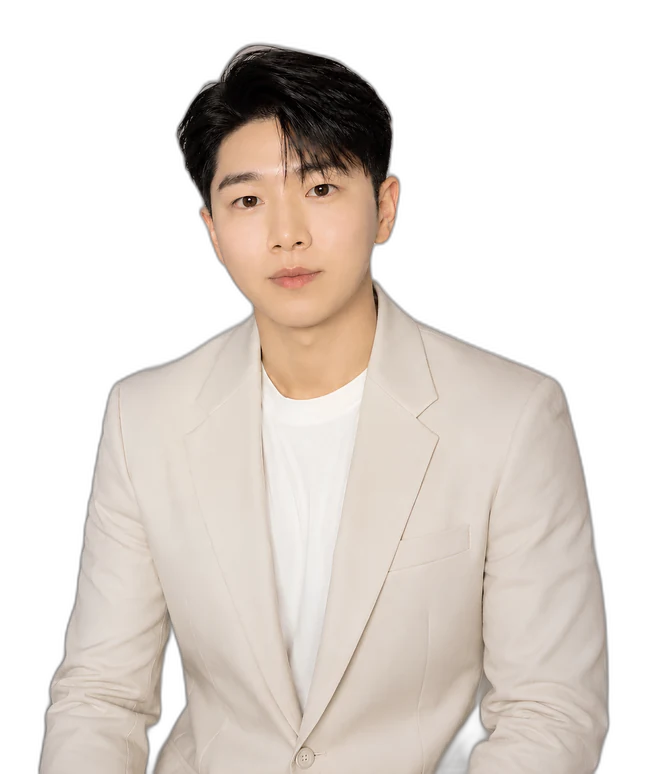
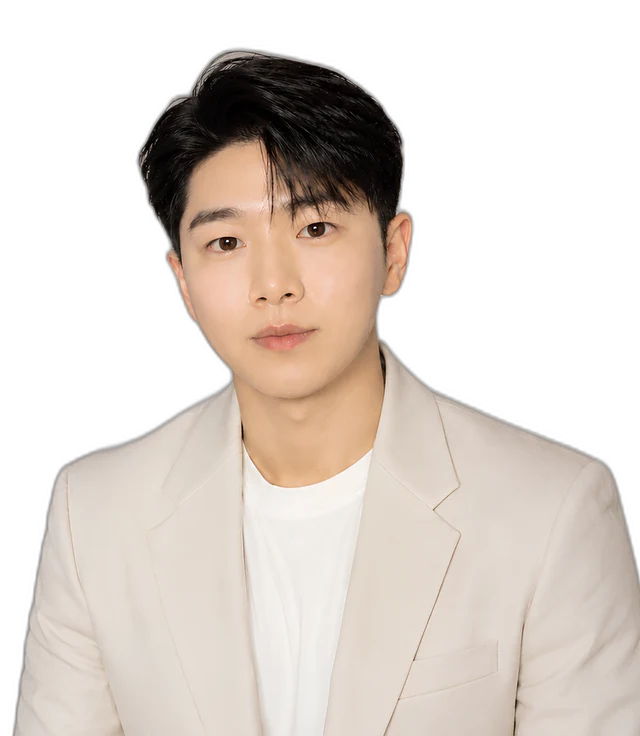
Redesign about section: editorial style, portrait blended into background
- 아치 프레임 제거, 사진을 배경 위에 자연스럽게 배치
- 하단이 배경 어둠 속으로 잠기는 섀도 페이드 처리
- DMOUR 세리프 워터마크, 바이올렛 글로우, 별 장식 추가
- 사진 가슴 위주 재크롭, 이름/직함 오버레이 배치
- 스탯 행을 보더 박스에서 헤어라인 구분 형태로 경량화

Claude-Session: https://claude.ai/code/session_01Hi6mSgoDCAsh81TYsyFuPW

diff --git a/index.html b/index.html
@@ -218,61 +218,90 @@
   .empathy .closing em { font-style: normal; }
 
   /* ---------- about ---------- */
-  .about { text-align: center; }
-  .portrait {
-    width: 216px; height: 258px;
-    margin: 4px auto 0;
-    border-radius: 120px 120px 20px 20px;
-    border: 1px solid transparent;
-    background:
-      radial-gradient(ellipse 90% 70% at 50% 20%, #2c2247, #1d1731 75%) padding-box,
-      var(--border-grad) border-box;
-    position: relative;
+  .about {
+    text-align: center;
+    background: radial-gradient(ellipse 85% 50% at 50% 34%, rgba(141,120,208,0.10), transparent);
     overflow: hidden;
-    box-shadow: 0 16px 50px rgba(141,120,208,0.22);
   }
-  .portrait img {
-    width: 100%; height: 100%;
-    object-fit: cover;
-    object-position: center top;
-    display: block;
-    filter: saturate(0.88) brightness(0.97);
+  .about-stage {
+    position: relative;
+    margin-top: 6px;
   }
-  .portrait::after {
-    content: "";
-    position: absolute; inset: 0;
-    background: linear-gradient(180deg, rgba(141,120,208,0.10) 0%, transparent 40%, rgba(29,23,49,0.55) 100%);
+  .stage-glow {
+    position: absolute;
+    left: 50%; top: 52%;
+    width: 380px; height: 380px;
+    transform: translate(-50%, -50%);
+    background:
+      radial-gradient(circle, rgba(141,120,208,0.32), rgba(141,120,208,0.10) 46%, transparent 68%),
+      radial-gradient(circle at 62% 30%, rgba(216,186,126,0.10), transparent 55%);
     pointer-events: none;
   }
-  .portrait .ph {
-    position: absolute; inset: 0;
-    display: flex; flex-direction: column;
-    align-items: center; justify-content: center;
-    gap: 16px;
+  .stage-word {
+    position: absolute;
+    left: 50%; top: 34px;
+    transform: translateX(-50%);
+    font-family: var(--serif-en);
+    font-size: 88px;
+    font-weight: 500;
+    letter-spacing: 0.14em;
+    color: rgba(183,164,236,0.10);
+    white-space: nowrap;
+    pointer-events: none;
+    line-height: 1;
   }
-  .portrait .ph .m {
-    width: 46px; height: 46px; border-radius: 50%;
-    background: radial-gradient(circle at 35% 32%, #f8eed6, #d8ba7e 72%);
-    box-shadow: 0 0 34px 8px rgba(216,186,126,0.28);
+  .stage-star { position: absolute; color: rgba(216,186,126,0.55); font-size: 11px; pointer-events: none; }
+  .stage-star.s1 { left: 13%; top: 22%; }
+  .stage-star.s2 { right: 12%; top: 58%; font-size: 8px; color: rgba(183,164,236,0.55); }
+  .stage-img {
+    position: relative;
+    z-index: 1;
+    display: block;
+    width: 240px;
+    margin: 0 auto;
+    filter: saturate(0.86) brightness(0.94) contrast(1.03);
+    -webkit-mask-image: linear-gradient(180deg, #000 82%, transparent 99%);
+    mask-image: linear-gradient(180deg, #000 82%, transparent 99%);
   }
-  .portrait .ph .t {
+  .stage-fade {
+    position: absolute;
+    left: -20px; right: -20px; bottom: -4px;
+    height: 46%;
+    z-index: 1;
+    background: linear-gradient(180deg, transparent, rgba(20,16,31,0.5) 40%, rgba(20,16,31,0.9) 72%, #14101f 100%);
+    pointer-events: none;
+  }
+  .stage-name { position: relative; z-index: 2; margin-top: -46px; }
+  .stage-name .nm {
+    font-family: var(--serif-kr);
+    font-size: 24px;
+    font-weight: 500;
+  }
+  .stage-name .nm-en {
     font-family: var(--serif-en);
     font-size: 13px;
-    letter-spacing: 0.4em;
-    text-indent: 0.4em;
+    letter-spacing: 0.52em;
+    text-indent: 0.52em;
+    color: var(--gold);
+    margin-top: 6px;
+  }
+  .stage-name .nm-role {
+    font-size: 12px;
     color: var(--ink-dim);
+    letter-spacing: 0.14em;
+    text-indent: 0.14em;
+    margin-top: 10px;
   }
   .stat-row {
     display: flex;
-    margin: 30px 0 28px;
-    border-top: 1px solid var(--card-line-soft);
-    border-bottom: 1px solid var(--card-line-soft);
+    justify-content: center;
+    margin: 34px 0 30px;
   }
-  .stat { flex: 1; padding: 18px 4px 15px; }
-  .stat + .stat { border-left: 1px solid var(--card-line-soft); }
+  .stat { padding: 0 22px; }
+  .stat + .stat { border-left: 1px solid rgba(56,44,88,0.8); }
   .stat .n {
     font-family: var(--serif-kr);
-    font-size: 21px;
+    font-size: 22px;
     font-weight: 600;
     line-height: 1.3;
     background: linear-gradient(115deg, #e9d09b, #f6ead0 50%, #d3ae72);
@@ -280,7 +309,7 @@
     background-clip: text;
     color: transparent;
   }
-  .stat .l { font-size: 11.5px; color: var(--ink-dim); margin-top: 3px; }
+  .stat .l { font-size: 11.5px; color: var(--ink-dim); margin-top: 4px; letter-spacing: 0.02em; }
   .about-lead {
     font-family: var(--serif-kr);
     font-size: 16.5px;
@@ -644,16 +673,25 @@
   <div class="wrap">
     <div class="sec-label">ABOUT</div>
     <h2 class="sec-title">당신의 이야기를<br>들을 사람</h2>
-    <p class="sec-sub">연애·재회·이별 상담 <b style="font-weight:500; color:var(--ink-soft);">디무르</b></p>
 
-    <div class="portrait">
-      <img src="portrait.webp" alt="상담가 디무르" width="648" height="774">
+    <div class="about-stage">
+      <div class="stage-glow" aria-hidden="true"></div>
+      <div class="stage-word" aria-hidden="true">DMOUR</div>
+      <span class="stage-star s1" aria-hidden="true">✦</span>
+      <span class="stage-star s2" aria-hidden="true">✦</span>
+      <img class="stage-img" src="portrait.webp" alt="상담가 디무르" width="640" height="736">
+      <div class="stage-fade" aria-hidden="true"></div>
+      <div class="stage-name">
+        <div class="nm">디무르</div>
+        <div class="nm-en">DMOUR</div>
+        <div class="nm-role">연애 · 재회 · 이별 심리상담가</div>
+      </div>
     </div>
 
     <div class="stat-row">
       <div class="stat">
         <div class="n">1급</div>
-        <div class="l">심리상담사 자격</div>
+        <div class="l">심리상담사</div>
       </div>
       <div class="stat">
         <div class="n">3년</div>
